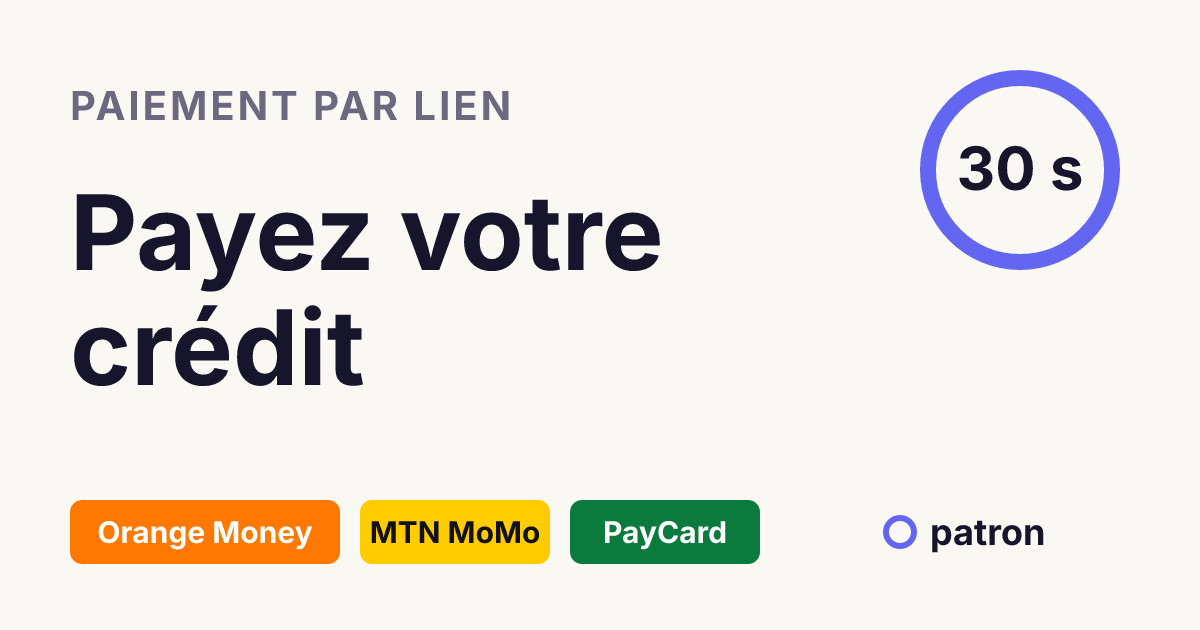
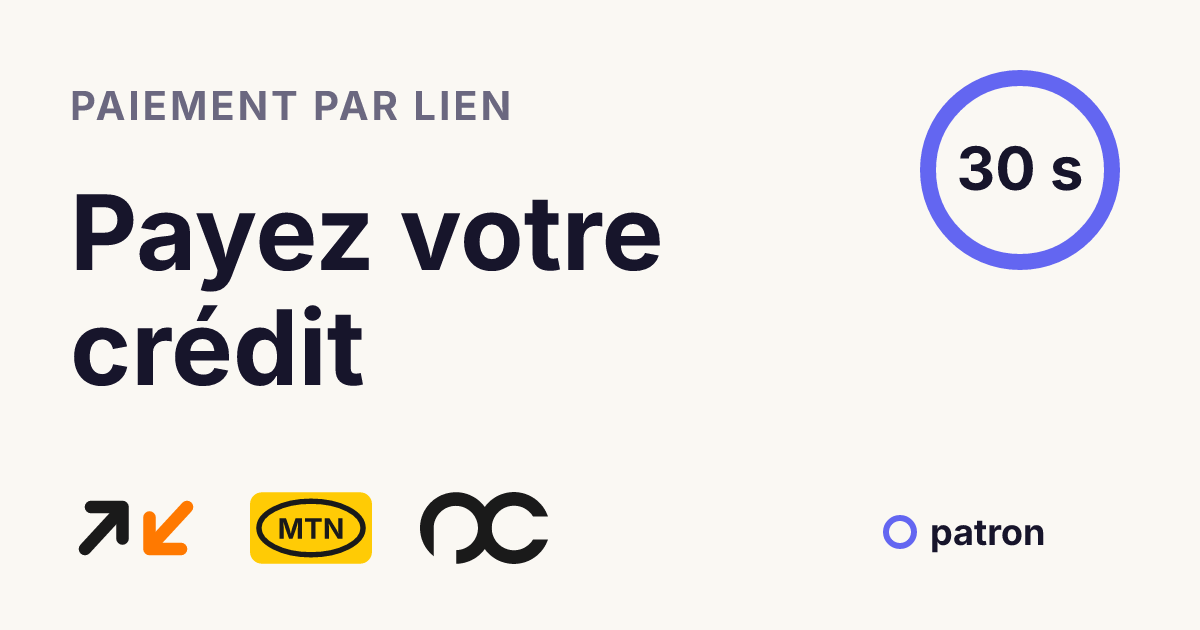
Payment page and card: use the app's real Orange Money / MTN / PayCard marks
Same vector drawings as the app's MethodLogo (no image files). Replaces the text pills.

Changed region(s): [[0.0308, 0.754, 0.6475, 0.9048]]

diff --git a/p/pay.js b/p/pay.js
@@ -29,8 +29,17 @@
     var cents = Number(raw) * (page.decimals === 0 ? 100 : 1);
     return cents > 0 && cents < page.balance_cents ? cents : null;
   }
+  /* Les marques des trois opérateurs, les mêmes tracés vectoriels que l'app (MethodLogo.tsx). */
+  var LOGOS = [
+    ['Orange Money', '0 0 44 24', 44 / 24, '<path d="M5 19 L17 6" stroke="#1A1A1A" stroke-width="4.2" stroke-linecap="round" fill="none"/><polyline points="7,5 17.5,5 17.5,15.5" stroke="#1A1A1A" stroke-width="4.2" stroke-linecap="round" stroke-linejoin="round" fill="none"/><path d="M39 5 L27 18" stroke="#FF7900" stroke-width="4.2" stroke-linecap="round" fill="none"/><polyline points="26.5,8.5 26.5,19 37,19" stroke="#FF7900" stroke-width="4.2" stroke-linecap="round" stroke-linejoin="round" fill="none"/>'],
+    ['MTN MoMo', '0 0 41 24', 41 / 24, '<rect width="41" height="24" rx="4" fill="#FFCB05"/><ellipse cx="20.5" cy="12" rx="17.5" ry="9" stroke="#1A1A1A" stroke-width="1.8" fill="none"/><text x="20.5" y="15.6" font-size="9.5" font-weight="900" fill="#1A1A1A" text-anchor="middle" font-family="Arial,Helvetica,sans-serif">MTN</text>'],
+    ['PayCard', '95 112 954 536', 954 / 536, '<path d="M197 590 A267 267 0 1 1 365 647 L365 545 A165 165 0 1 0 197 380 Z" fill="#1A1A1A"/><path d="M1049 295 A268 268 0 1 0 1049 465 L938 465 A166 166 0 1 1 938 295 Z" fill="#1A1A1A"/>']
+  ];
   function methods() {
-    return '<div class="m"><span class="om">Orange Money</span><span class="mtn">MTN MoMo</span><span class="pc">PayCard</span></div>';
+    return '<div class="m">' + LOGOS.map(function (l) {
+      var w = Math.round(l[2] * 26);
+      return '<svg role="img" aria-label="' + l[0] + '" width="' + w + '" height="26" viewBox="' + l[1] + '">' + l[3] + '</svg>';
+    }).join('') + '</div>';
   }
   function inactive() {
     return '<div class="card"><h1>Lien inactif</h1><p class="sub">Ce lien n’est plus actif. Demandez un nouveau lien à la boutique.</p></div>';

diff --git a/p/index.html b/p/index.html
@@ -22,7 +22,7 @@ h1{font-size:15px;letter-spacing:.06em;text-transform:uppercase;margin:0 0 2px}.
 .lab{font-size:12px;letter-spacing:.08em;text-transform:uppercase;color:#6b6880;margin:0}.big{font-size:44px;font-weight:700;line-height:1.1;margin:2px 0 14px}.big small{font-size:18px;font-weight:600;color:#6b6880}
 .ask{background:#fff7e6;border-radius:10px;padding:10px 12px;margin:0 0 14px;font-size:14px}
 ul{list-style:none;margin:0 0 16px;padding:0}li{display:flex;justify-content:space-between;gap:10px;padding:8px 0;border-top:1px solid #ece9f6;font-size:14px}li span:first-child{color:#6b6880}
-.m{display:flex;gap:8px;flex-wrap:wrap;margin:0 0 16px}.m span{font-weight:700;font-size:13px;border-radius:6px;padding:5px 9px}.om{background:#ff7900;color:#fff}.mtn{background:#ffcc00;color:#111}.pc{background:#0a7a3d;color:#fff}
+.m{display:flex;gap:16px;align-items:center;flex-wrap:wrap;margin:0 0 16px}
 .btn{display:block;width:100%;border:0;border-radius:12px;padding:15px;font:inherit;font-weight:700;font-size:17px;background:#6366f1;color:#fff;text-align:center;text-decoration:none}.btn[disabled]{background:#c9c8e8}
 .note{color:#6b6880;font-size:13px;margin:12px 0 0;text-align:center}.foot{text-align:center;color:#6b6880;font-size:12px;margin-top:18px}
 </style>
